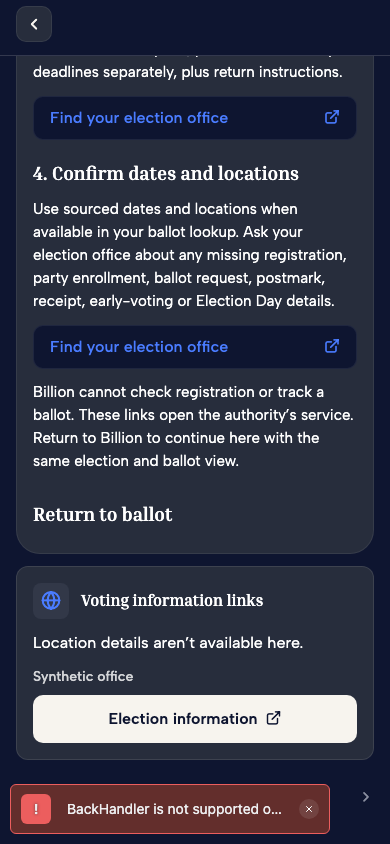
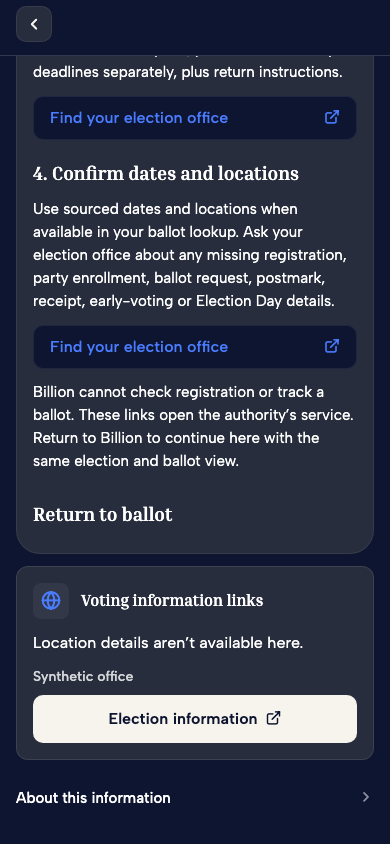
fix: skip native back subscription in web verification

Changed region(s): [[0.0, 0.9242, 0.8615, 1.0]]

diff --git a/apps/expo/src/components/ballot/BallotLookupView.tsx b/apps/expo/src/components/ballot/BallotLookupView.tsx
@@ -97,7 +97,7 @@ export function BallotLookupView(props: BallotLookupViewProps) {
   const [ballotOffset, setBallotOffset] = useState(0);
   useFocusEffect(
     useCallback(() => {
-      if (!votingExpanded) return;
+      if (!votingExpanded || Platform.OS === "web") return;
       const subscription = BackHandler.addEventListener(
         "hardwareBackPress",
         () => {
